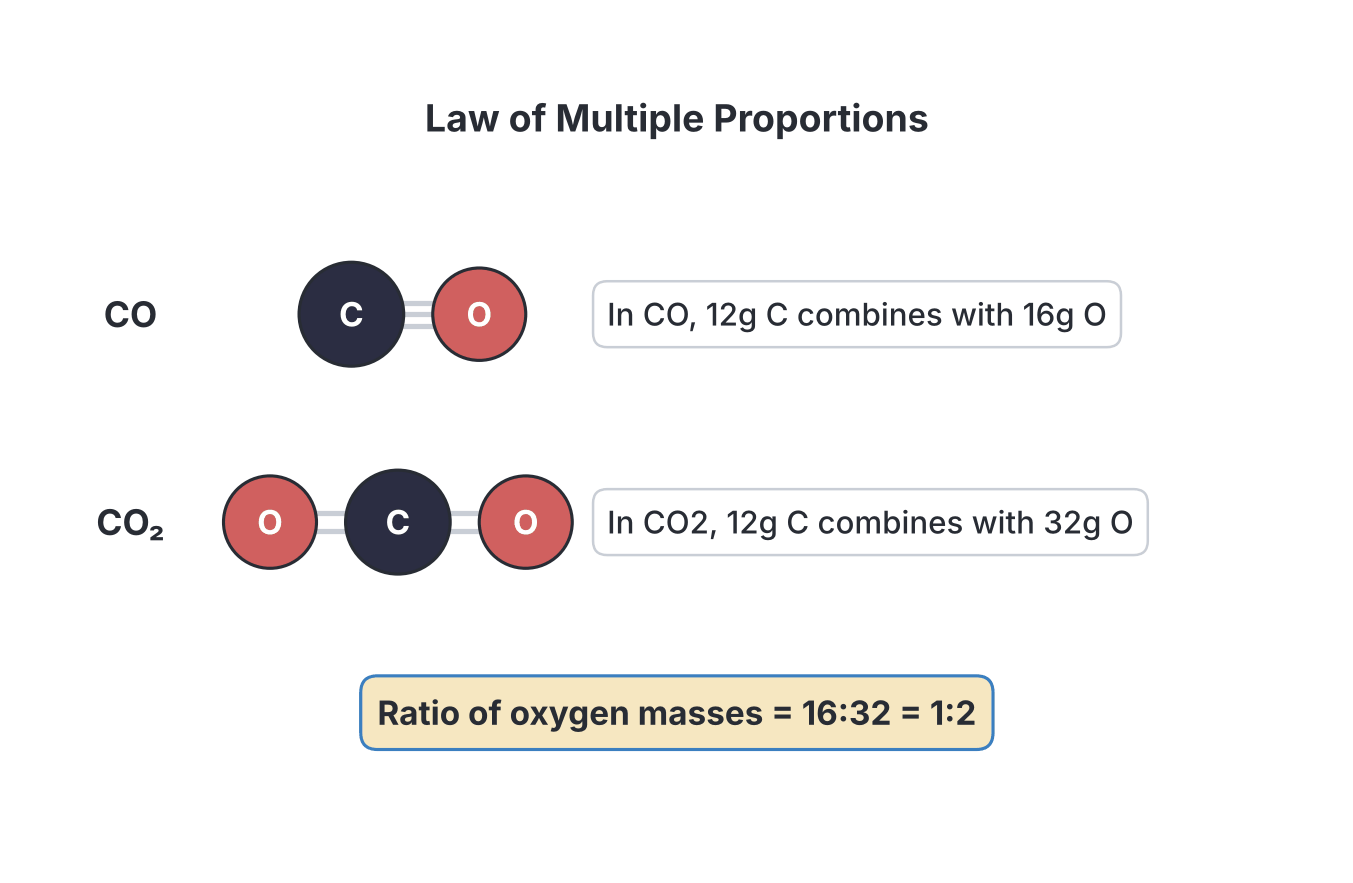
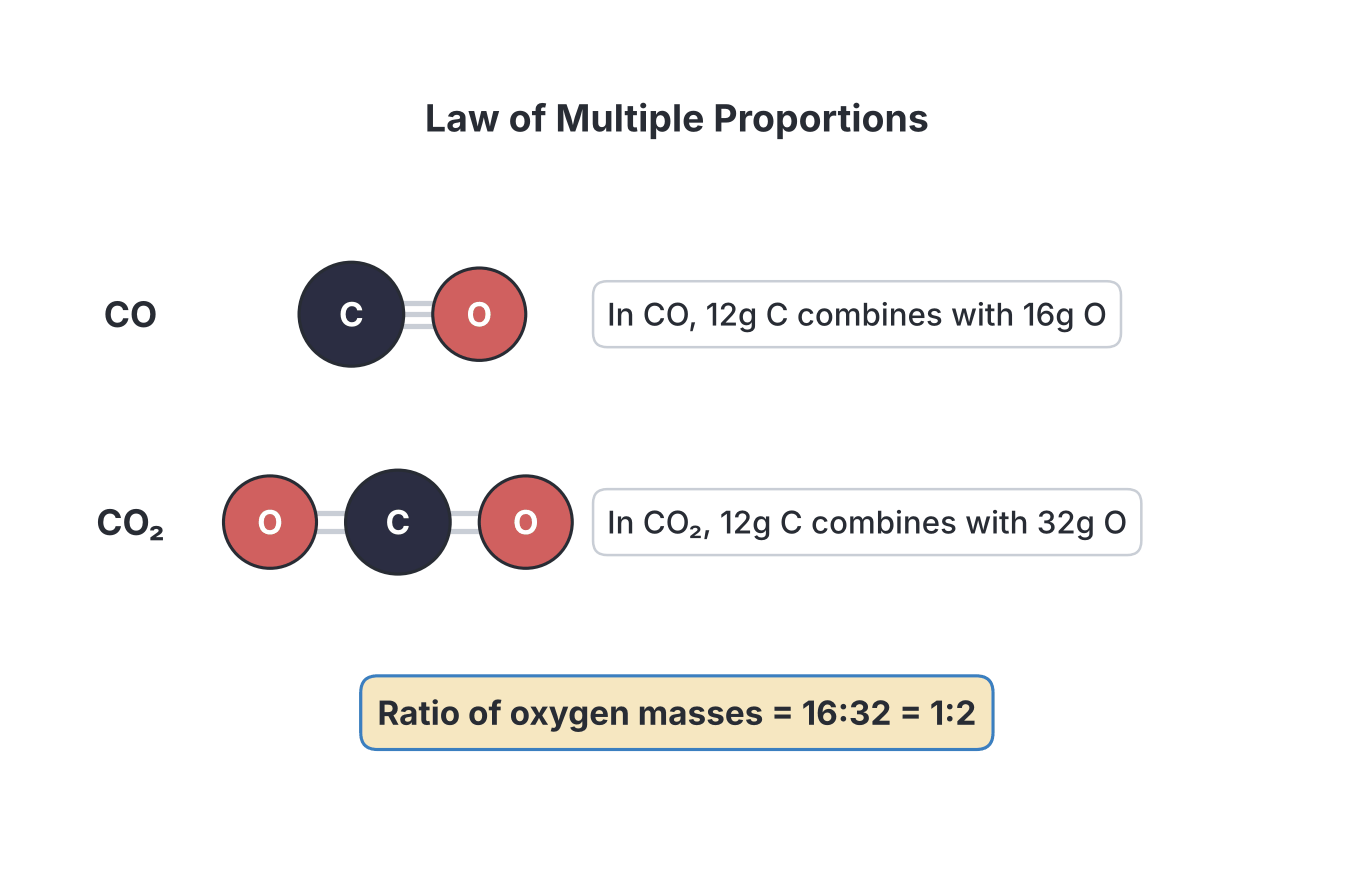
Image cleanup chemistry A2-chemical-combination: 2 image(s) re-rendered, repainted or placed
Claude-Session: https://claude.ai/code/session_01AuzkMMKKHsgCscpXnvCsGG

Changed region(s): [[0.4967, 0.5504, 0.8692, 0.6116]]

diff --git a/subjects/chemistry/A2-chemical-combination.md b/subjects/chemistry/A2-chemical-combination.md
@@ -120,7 +120,7 @@ Formulated by Jeremias Richter in 1792, this law states that **the masses of two
 - **Multiple Proportions:** Involves **two** elements forming **two or more** compounds (e.g., $\text{SO}_2$ and $\text{SO}_3$).
 - **Reciprocal Proportions:** Involves **three** elements forming **three** compounds (e.g., $\text{H}_2\text{S}$, $\text{H}_2\text{O}$, $\text{SO}_2$).
 
-![Triangle diagram of the Law of Reciprocal Proportions linking sulfur, hydrogen, and oxygen with compounds H2S, SO2, and H2O alongside reacting mass ratios.](images/A2-03-reciprocal-proportions-triangle.png)
+![Triangle diagram of the Law of Reciprocal Proportions linking sulfur, hydrogen, and oxygen with compounds H₂S, SO₂, and H₂O alongside reacting mass ratios.](images/A2-03-reciprocal-proportions-triangle.png)
 
 ## Relative atomic mass based on $^{12}\text{C}=12$
 
